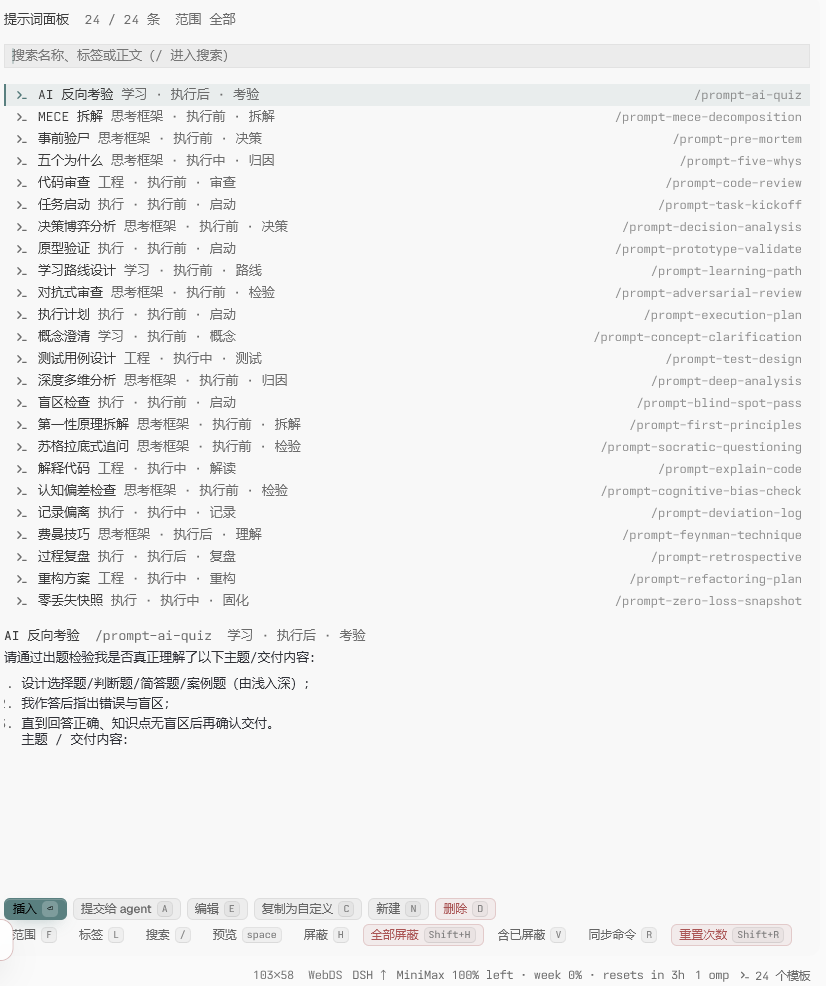
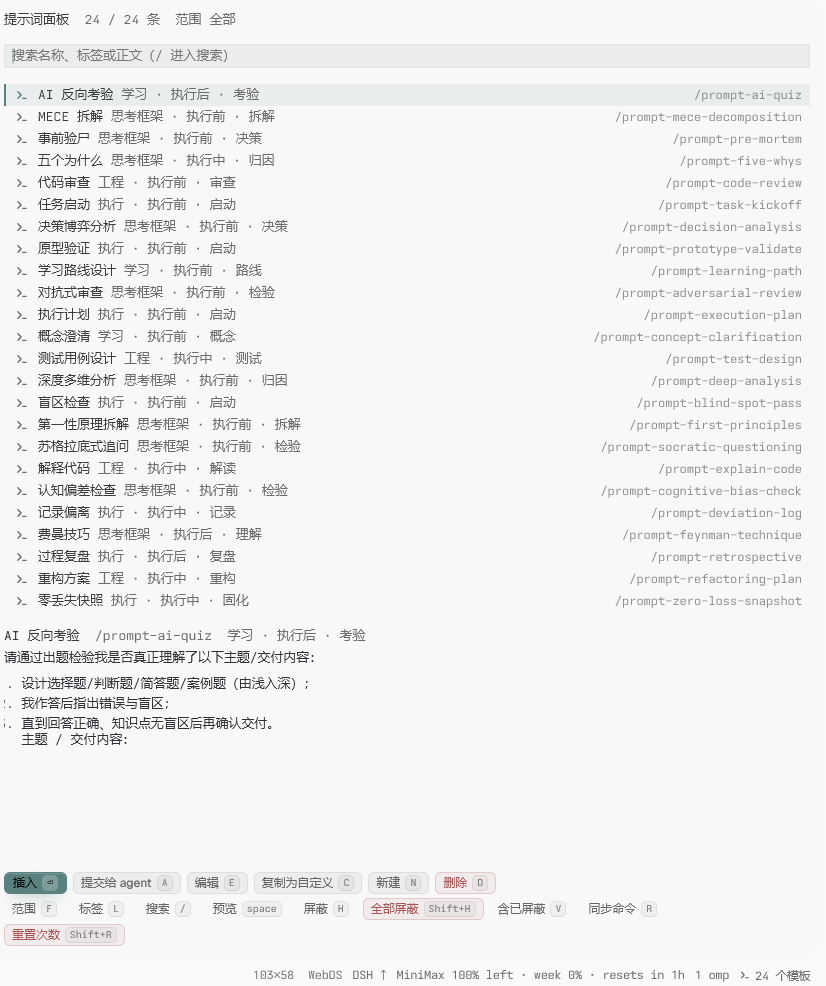
fix: 底栏按钮按面板宽度折行，不再被裁掉
- 按钮宽度按字形估算（中文两格、键帽按实际字形），按 pane 宽度打包成若干排：
  103 格时「重置次数」自己一行，26 格时每行一个，全都点得到
- dock 渲染拿 cx.cols，宽度一变就重排；不再有被遮住的按钮
- 测试补一条：36 格和 100 格按钮数量相同，窄的排数更多
- 截图与 README 同步

Changed region(s): [[0.0, 0.8824, 0.6659, 0.9736], [0.8172, 0.9432, 0.9383, 0.9736], [0.6961, 0.9128, 0.7567, 0.9736]]

diff --git a/README.md b/README.md
@@ -29,7 +29,7 @@ tern plugin link /path/to/tern-prompt-panel
 撤回槽只记一条，删下一条时旧的作废；关掉面板再打开就清空。
 
 选中任意模板，正文就显示在列表下面（`空格` 收起或展开）。面板底部的按钮就是全部快捷键，
-按钮上画着键帽，颜色区分主操作（填充）、常规（描边）、工具（无边框）和危险（红）。
+按钮上画着键帽，颜色区分主操作（填充）、常规（描边）、工具（无边框）和危险（红）；面板窄了会自己折行，不裁按钮。
 
 列表：
 
